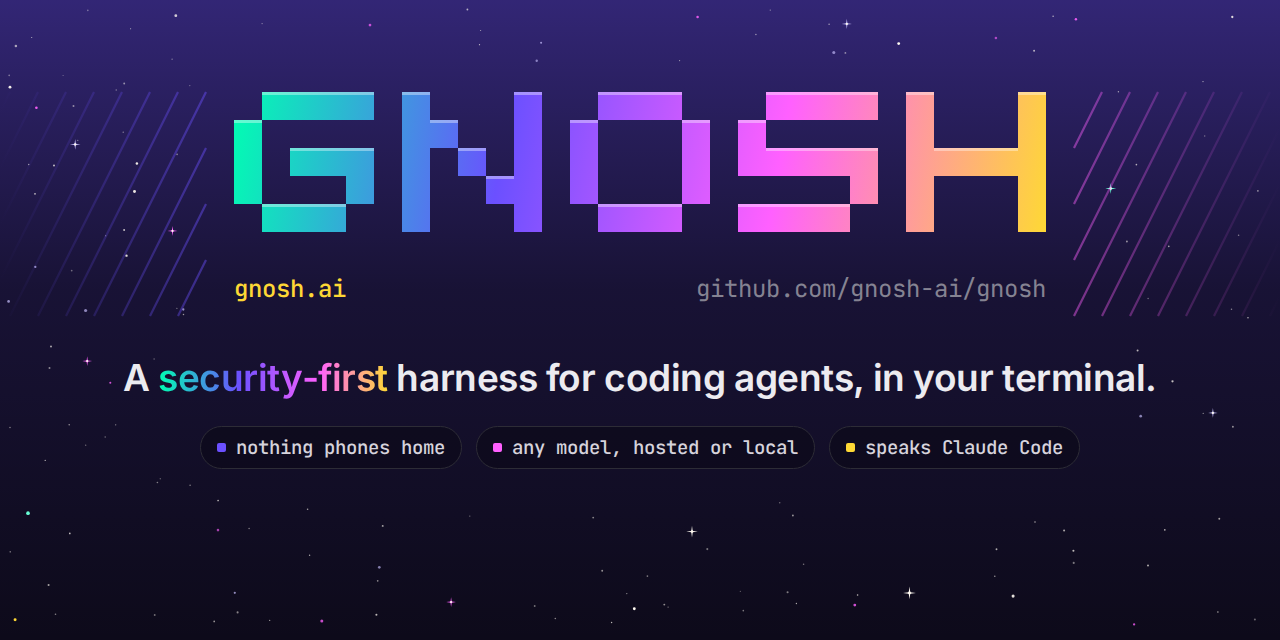
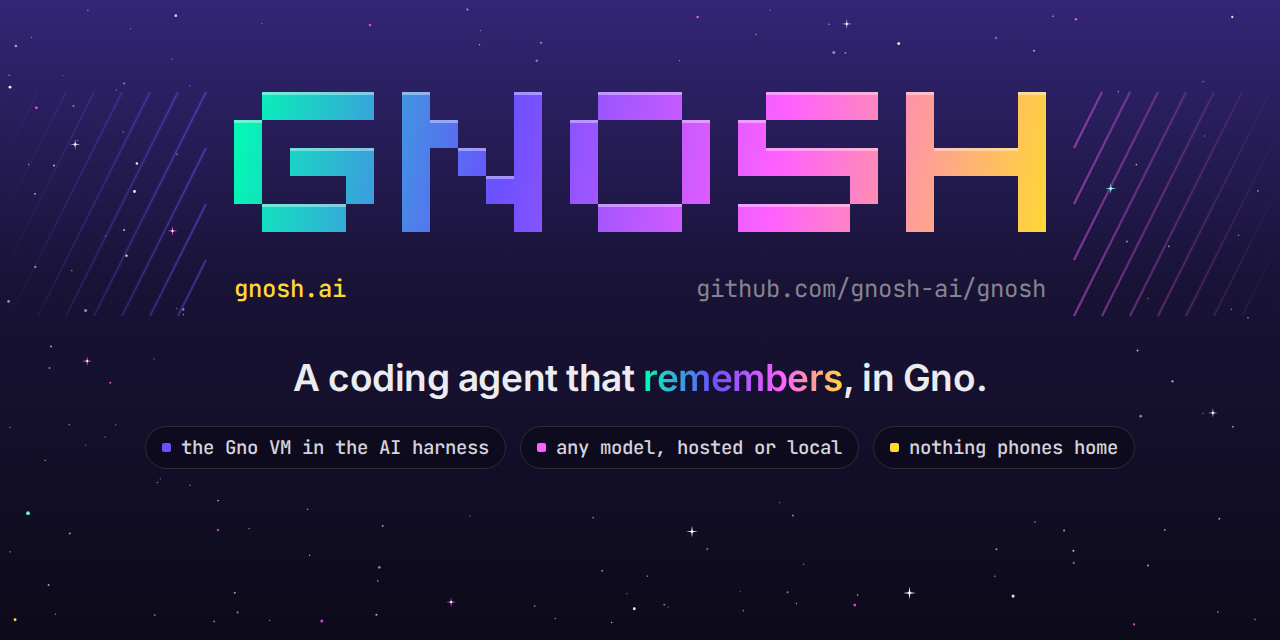
brand: the social card says what Gnosh is now
The card read "A security-first harness for coding agents, in your
terminal.", with pills for nothing phoning home, any model and Claude
Code. It now reads "A coding agent that remembers, in Gno.", as the
README and gnosh.ai open, with pills for the Gno VM in the AI harness
(Jae's words), any model, and nothing phoning home. og.png is the
headless shell's screenshot of og.html, as the script's header says.

Changed region(s): [[0.0938, 0.5625, 0.9062, 0.625], [0.125, 0.6875, 0.875, 0.7188]]

diff --git a/docs/brand/og.html b/docs/brand/og.html
@@ -27,11 +27,11 @@ html,body{width:1280px;height:640px;overflow:hidden;background:#07060D}
 <path d="M262 92h112v28h-112zM402 92h28v28h-28zM514 92h28v28h-28zM598 92h84v28h-84zM766 92h112v28h-112zM906 92h28v28h-28zM1018 92h28v28h-28zM234 120h28v28h-28zM402 120h56v28h-56zM514 120h28v28h-28zM570 120h28v28h-28zM682 120h28v28h-28zM738 120h28v28h-28zM906 120h28v28h-28zM1018 120h28v28h-28zM234 148h28v28h-28zM290 148h84v28h-84zM402 148h28v28h-28zM458 148h28v28h-28zM514 148h28v28h-28zM570 148h28v28h-28zM682 148h28v28h-28zM738 148h140v28h-140zM906 148h140v28h-140zM234 176h28v28h-28zM346 176h28v28h-28zM402 176h28v28h-28zM486 176h56v28h-56zM570 176h28v28h-28zM682 176h28v28h-28zM850 176h28v28h-28zM906 176h28v28h-28zM1018 176h28v28h-28zM262 204h84v28h-84zM402 204h28v28h-28zM514 204h28v28h-28zM598 204h84v28h-84zM738 204h112v28h-112zM906 204h28v28h-28zM1018 204h28v28h-28z" fill="url(#word)"/><path d="M262 92h112v3h-112zM402 92h28v3h-28zM514 92h28v3h-28zM598 92h84v3h-84zM766 92h112v3h-112zM906 92h28v3h-28zM1018 92h28v3h-28zM234 120h28v3h-28zM430 120h28v3h-28zM570 120h28v3h-28zM682 120h28v3h-28zM738 120h28v3h-28zM290 148h84v3h-84zM458 148h28v3h-28zM766 148h112v3h-112zM934 148h84v3h-84zM486 176h28v3h-28zM262 204h84v3h-84zM598 204h84v3h-84zM738 204h112v3h-112z" fill="#fff" opacity=".38"/>
 </svg></div>
 <div class="wrap">
-  <div class="tag">A <b>security-first</b> harness for coding agents, in your terminal.</div>
+  <div class="tag">A coding agent that <b>remembers</b>, in Gno.</div>
   <div class="pts">
-    <span><i style="background:#6B50FF"></i>nothing phones home</span>
+    <span><i style="background:#6B50FF"></i>the Gno VM in the AI harness</span>
     <span><i style="background:#FF60FF"></i>any model, hosted or local</span>
-    <span><i style="background:#FED835"></i>speaks Claude Code</span>
+    <span><i style="background:#FED835"></i>nothing phones home</span>
   </div>
 </div>
 </body></html>

diff --git a/scripts/brand.py b/scripts/brand.py
@@ -393,11 +393,11 @@ html,body{width:1280px;height:640px;overflow:hidden;background:$void}
 </style></head><body>
 <div class="bg">$svg</div>
 <div class="wrap">
-  <div class="tag">A <b>security-first</b> harness for coding agents, in your terminal.</div>
+  <div class="tag">A coding agent that <b>remembers</b>, in Gno.</div>
   <div class="pts">
-    <span><i style="background:$purple"></i>nothing phones home</span>
+    <span><i style="background:$purple"></i>the Gno VM in the AI harness</span>
     <span><i style="background:$pink"></i>any model, hosted or local</span>
-    <span><i style="background:$gold"></i>speaks Claude Code</span>
+    <span><i style="background:$gold"></i>nothing phones home</span>
   </div>
 </div>
 </body></html>
